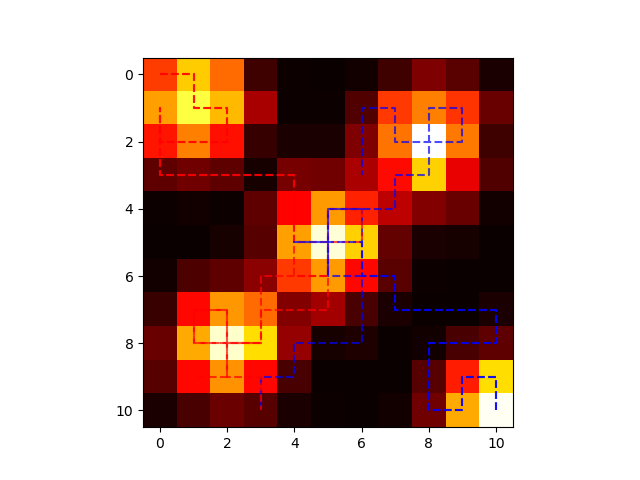
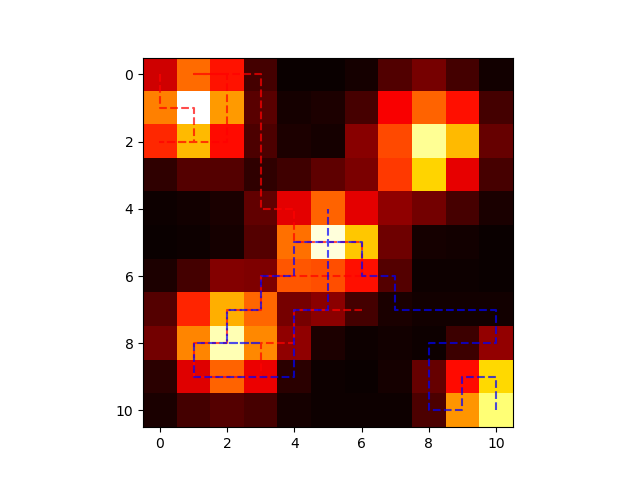
viz plots for the rh-ma-vulcan

diff --git a/test/test_rh_ma_vulcan.py b/test/test_rh_ma_vulcan.py
@@ -18,11 +18,14 @@ from map import Map, Parameters  # NOQA
 from rh_ma_vulcan import MultiAgentVulcan  # NOQA
 
 
-def visualize_path(paths: List[List[NDArray[np.int64]]], map: Map):
+def visualize_path(paths: List[List[NDArray[np.int64]]], map: Map, filename: str):
     fig, ax = plt.subplots()
     map_limits = [0, map.num_of_rows, 0, map.num_of_cols]
     ax.set_xlim(map_limits[0], map_limits[1])
     ax.set_ylim(map_limits[2], map_limits[3])
+    ax.set_xticks([])
+    ax.set_yticks([])
+    ax.imshow(map.grid, cmap="hot")
 
     agent_colors = "rbgkymc"
     num_of_agents = len(paths)
@@ -39,15 +42,15 @@ def visualize_path(paths: List[List[NDArray[np.int64]]], map: Map):
 
     def update(frame):
         for i, path in enumerate(paths):
-            x_data = [point[0] for point in path[: frame + 1]]
-            y_data = [point[1] for point in path[: frame + 1]]
+            x_data = [point[1] for point in path[: frame + 1]]
+            y_data = [point[0] for point in path[: frame + 1]]
             lines[i].set_data(x_data, y_data)
         return lines
 
     frames = max(len(path) for path in paths)
-    _ = FuncAnimation(fig, update, frames=frames, init_func=init, blit=True)
+    animation = FuncAnimation(fig, update, frames=frames, init_func=init, blit=True)
+    animation.save(filename, writer="imagemagick", fps=1)
 
-    plt.imshow(map.grid, cmap="hot")
     plt.show()
 
 
@@ -171,7 +174,11 @@ if __name__ == "__main__":
     plt.imshow(map.grid, cmap="hot")
     plt.savefig(figures_base_path + "rh-ma-vulcan-" + args.type + ".png")
 
-    visualize_path(vulcan_agents_paths, map)
+    visualize_path(
+        vulcan_agents_paths,
+        map,
+        figures_base_path + "rh-ma-vulcan-" + args.type + ".gif",
+    )
 
     vulcan_map = deepcopy(map)
     vulcan_agents = []
@@ -207,4 +214,6 @@ if __name__ == "__main__":
     plt.imshow(map.grid, cmap="hot")
     plt.savefig(figures_base_path + "sa-vulcan-" + args.type + ".png")
 
-    visualize_path(vulcan_agents_paths, map)
+    visualize_path(
+        vulcan_agents_paths, map, figures_base_path + "sa-vulcan-" + args.type + ".gif"
+    )
